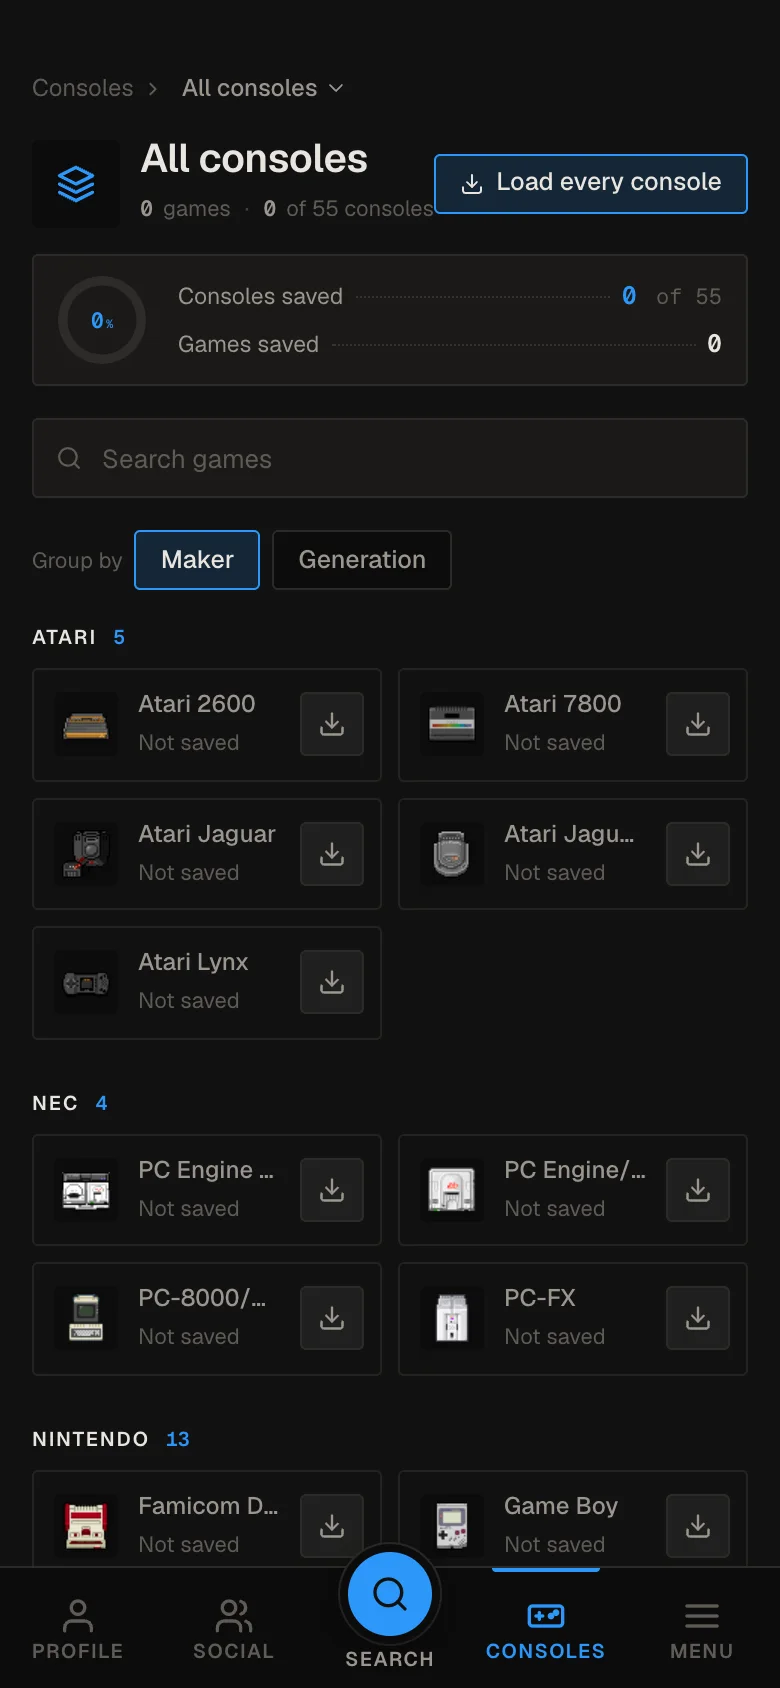
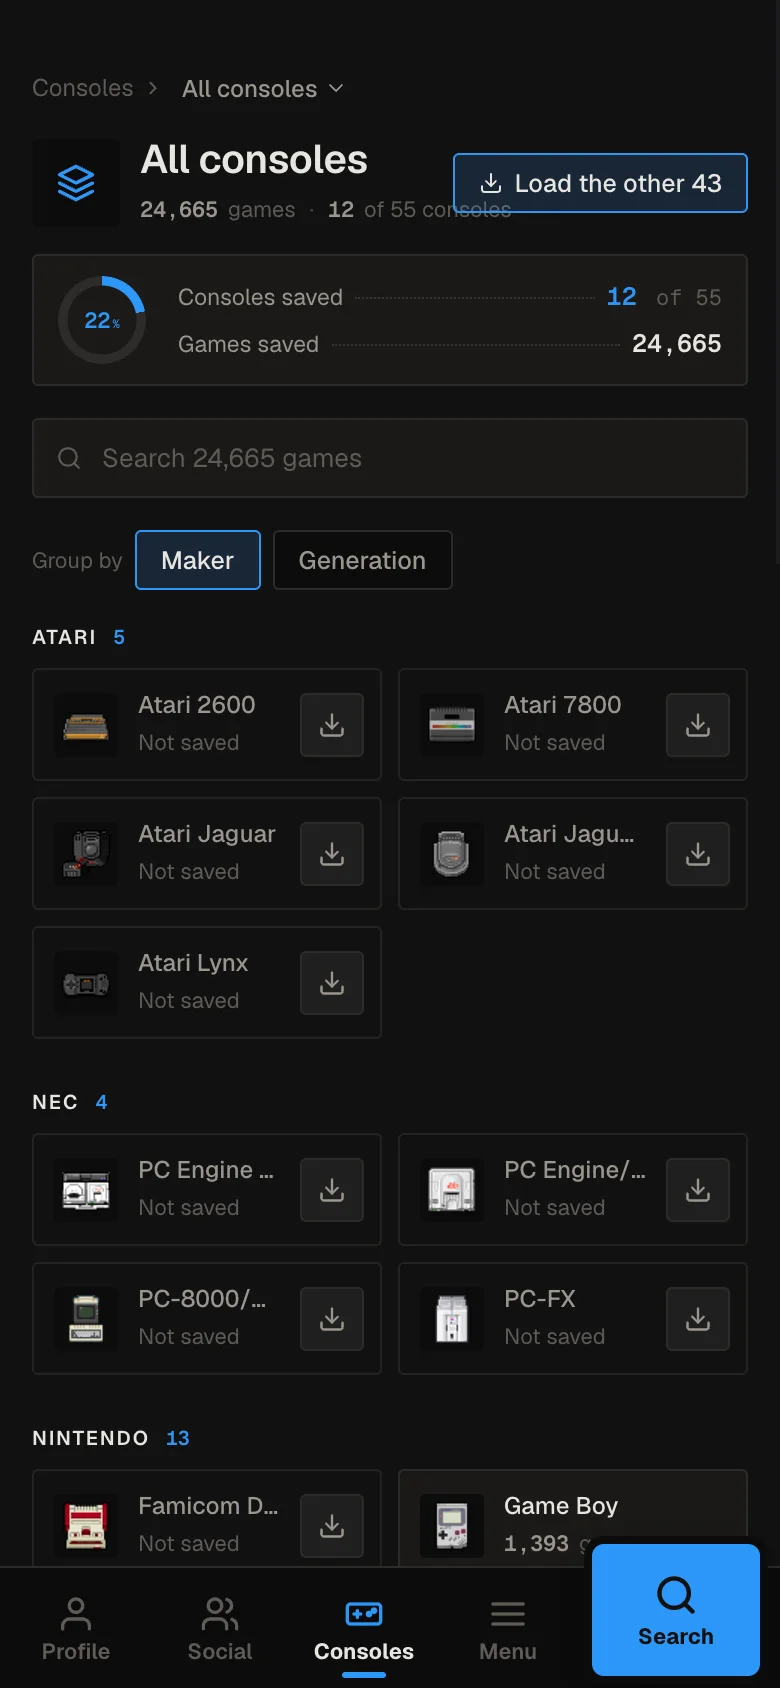
docs: fresh screenshots and posters with the new bar and search, link the search video
Claude-Session: https://claude.ai/code/session_01S8fGnDU1gcFfcuuzHRjaTh

diff --git a/scripts/posters.js b/scripts/posters.js
@@ -83,7 +83,8 @@ async function capture(browser) {
                 const hcRun = within('.frun.hc');
                 return { strip: r(document.querySelector('.fstrip')), feed: r(feed),
                     pts: { avatar: mid(within('.fpost-av'), 'l'), hc: hcRun ? [Math.round(hcRun.getBoundingClientRect().left + scrollX), Math.round(hcRun.getBoundingClientRect().top + scrollY + Math.min(110, hcRun.getBoundingClientRect().height - 20))] : null,
-                        subset: mid(within('.frun-h .subset-tag'), 'r'), badge: mid(within('.frun-b img:last-of-type'), 'r') } };
+                        subset: mid(within('.frun-h .subset-tag'), 'r'), badge: mid(within('.frun-b img:last-of-type'), 'r'),
+                        badges: [...document.querySelectorAll('.frun-b')].map(b => mid([...b.querySelectorAll('img')].filter(i => i.getBoundingClientRect().width && getComputedStyle(i).display !== 'none').pop(), 'r')).filter(p => p && p[1] > top && p[1] < top + 520) } };
             });
             fs.writeFileSync(path.join(SHOTS, 'd-friends.json'), JSON.stringify(layout, null, 1));
         }
@@ -218,10 +219,13 @@ ${parts.map(call).join('')}`;
             const x0 = Math.min(L.strip[0], L.feed[0]), w = Math.max(L.strip[0] + L.strip[2], L.feed[0] + L.feed[2]) - x0;   // one column, one scale
             const DW = 960, k = DW / (w * 2), X = 320, stripH = Math.round(L.strip[3] * 2 * k), Y = 168 + stripH + 22, FH = 860;
             const at = p => p && [Math.round(X + (p[0] - x0) * 2 * k), Math.round(Y + (p[1] - L.feed[1]) * 2 * k)];
-            const P = L.pts || {}, [a, b, sb, g] = [at(P.avatar), at(P.hc), at(P.subset), at(P.badge)];
+            const P = L.pts || {};
+            // "Every badge" points at the first badge row far enough below the subset label to keep the two labels apart
+            const badgeAt = P.subset && P.badges?.length ? (P.badges.find(p => p[1] - P.subset[1] >= 45) || P.badge) : P.badge;
+            const [a, b, sb, g] = [at(P.avatar), at(P.hc), at(P.subset), at(badgeAt)];
             // Labels on one side need ~120px each: push a label down along its target's edge (a gold run's edge is tall)
             if (a && b && b[1] - a[1] < 130) b[1] = a[1] + 130;
-            if (sb && g && Math.abs(g[1] - sb[1]) < 130) g[1] = Math.max(g[1], sb[1] + 130);
+            if (sb && g && Math.abs(g[1] - sb[1]) < 130 && !P.badges?.length) g[1] = Math.max(g[1], sb[1] + 130);
             return `
 <div class="abs" style="left:0;right:0;top:52px;text-align:center"><h2 class="px" style="font-size:54px;line-height:1">Everyone you follow, on <span class="blue">one timeline.</span></h2></div>
 ${crop('d-friends', x0 * 2, L.strip[1] * 2, w * 2, L.strip[3] * 2, DW, `left:${X}px;top:168px`)}

diff --git a/README.md b/README.md
@@ -28,7 +28,7 @@ Cheevodex is a free, open-source [RetroAchievements](https://retroachievements.o
 - **Social.** Your friends' activity on one timeline, each friend in a colour worked out from their name, beside who you follow and who follows you; on a phone you swipe between them. Compare yourself with anyone: who leads in how many of the games you share, and each game's progress ring around both your faces.
 - **Backlog.** Your RetroAchievements want-to-play list as an index: the games you have started up next, then every game by console under A to Z, lit up once you start it, with the points on offer for the rest.
 - **Stats.** Streaks, points across the year, masteries by month, consoles and how rare your unlocks are.
-- **Search from anywhere.** One search over games, players, consoles and pages: the blue tile in the corner of the bar on a phone, ⌘K or Ctrl+K on a computer. It forgives typos, knows short console names like ps2 or gba, puts your own games first and works on what Cheevodex has already loaded. On a phone the field sits right above the keyboard; before you type it offers the games you were just playing and the people you follow, and results filter by games, players or consoles. On a computer the highlighted result shows beside the list with your progress. Swipe away the recent searches you no longer need.
+- **Search from anywhere.** One search over games, players, consoles and pages: the blue tile in the corner of the bar on a phone, ⌘K or Ctrl+K on a computer. It forgives typos, knows short console names like ps2 or gba, puts your own games first and works on what Cheevodex has already loaded. On a phone the field sits right above the keyboard; before you type it offers the games you were just playing and the people you follow, and results filter by games, players or consoles. On a computer the highlighted result shows beside the list with your progress. Swipe away the recent searches you no longer need. [Watch it on a phone and a computer](https://yozuryu.github.io/cheevodex-site/#search) (1 min 28 s).
 - **Every console.** Every system with its game count, saved one console at a time. Open one to browse its library and see how many of its sets you have played, or search every saved game at once.
 - **Anyone's dex.** Open any RetroAchievements username to read their dex and progress.
 - **An app on your phone.** Install it from your browser's menu, or from Cheevodex's own menu when your browser offers it; it opens full screen, works on phones and computers alike, and tells you when a new edition is out.
